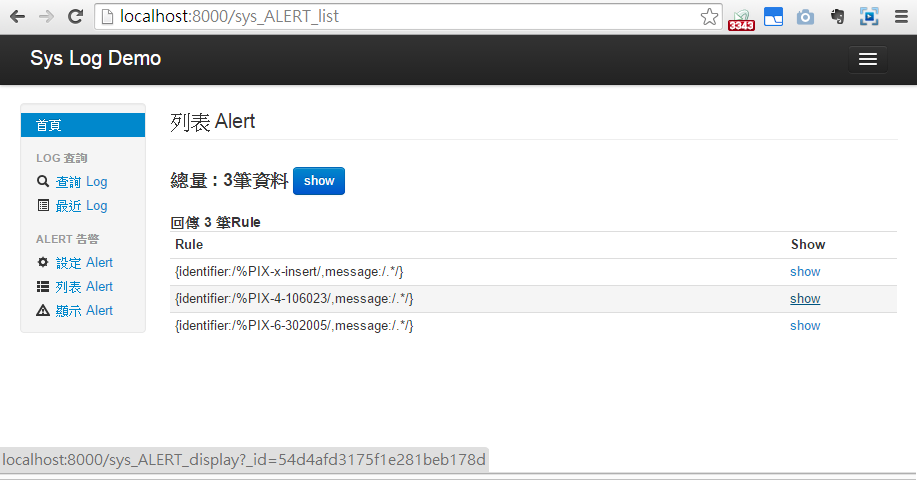
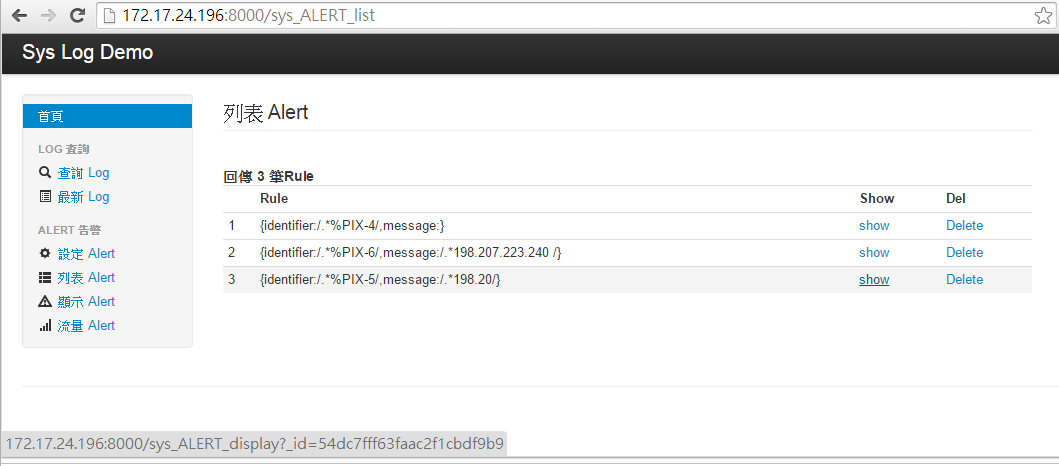
md

diff --git a/README.md b/README.md
@@ -54,17 +54,21 @@ var dbfluentd = monk('192.168.0.190/test');
 $ node app.js
 ```
 
-新增Log
+### Log part
+
+新增 Log
 ![Image text](https://github.com/liyuqi/Syslog0130/blob/master/example/syslog_CRUD_insert.png)
 
-查詢Log
+查詢 Log
 ![Image text](https://github.com/liyuqi/Syslog0130/blob/master/example/syslog_CRUD_query.png)
 
-顯示Log
+顯示 Log
 ![Image text](https://github.com/liyuqi/Syslog0130/blob/master/example/syslog_CRUD_query_result.png)
 
-最新Log
-![Image text](https://github.com/liyuqi/Syslog0130/blob/master/example/syslog_CRUD_show_pagging.png)
+最新 Log
+![Image text](https://github.com/liyuqi/Syslog0130/blob/master/example/syslog_CRUD_show.png)
+
+### Alert part
 
 設定 Alert
 ![Image text](https://github.com/liyuqi/Syslog0130/blob/master/example/syslog_ALERT_insert.png)
@@ -72,5 +76,8 @@ $ node app.js
 列表 Alert
 ![Image text](https://github.com/liyuqi/Syslog0130/blob/master/example/syslog_ALERT_list.png)
 
-顯示Alert
-![Image text](https://github.com/liyuqi/Syslog0130/blob/master/example/syslog_ALERT_display.png)
+顯示 Alert (60sec)
+![Image text](https://github.com/liyuqi/Syslog0130/blob/master/example/syslog_ALERT_display_timer.png)
+
+流量 Alert
+![Image text](https://github.com/liyuqi/Syslog0130/blob/master/example/syslog_ALERT_display_timer.png)
